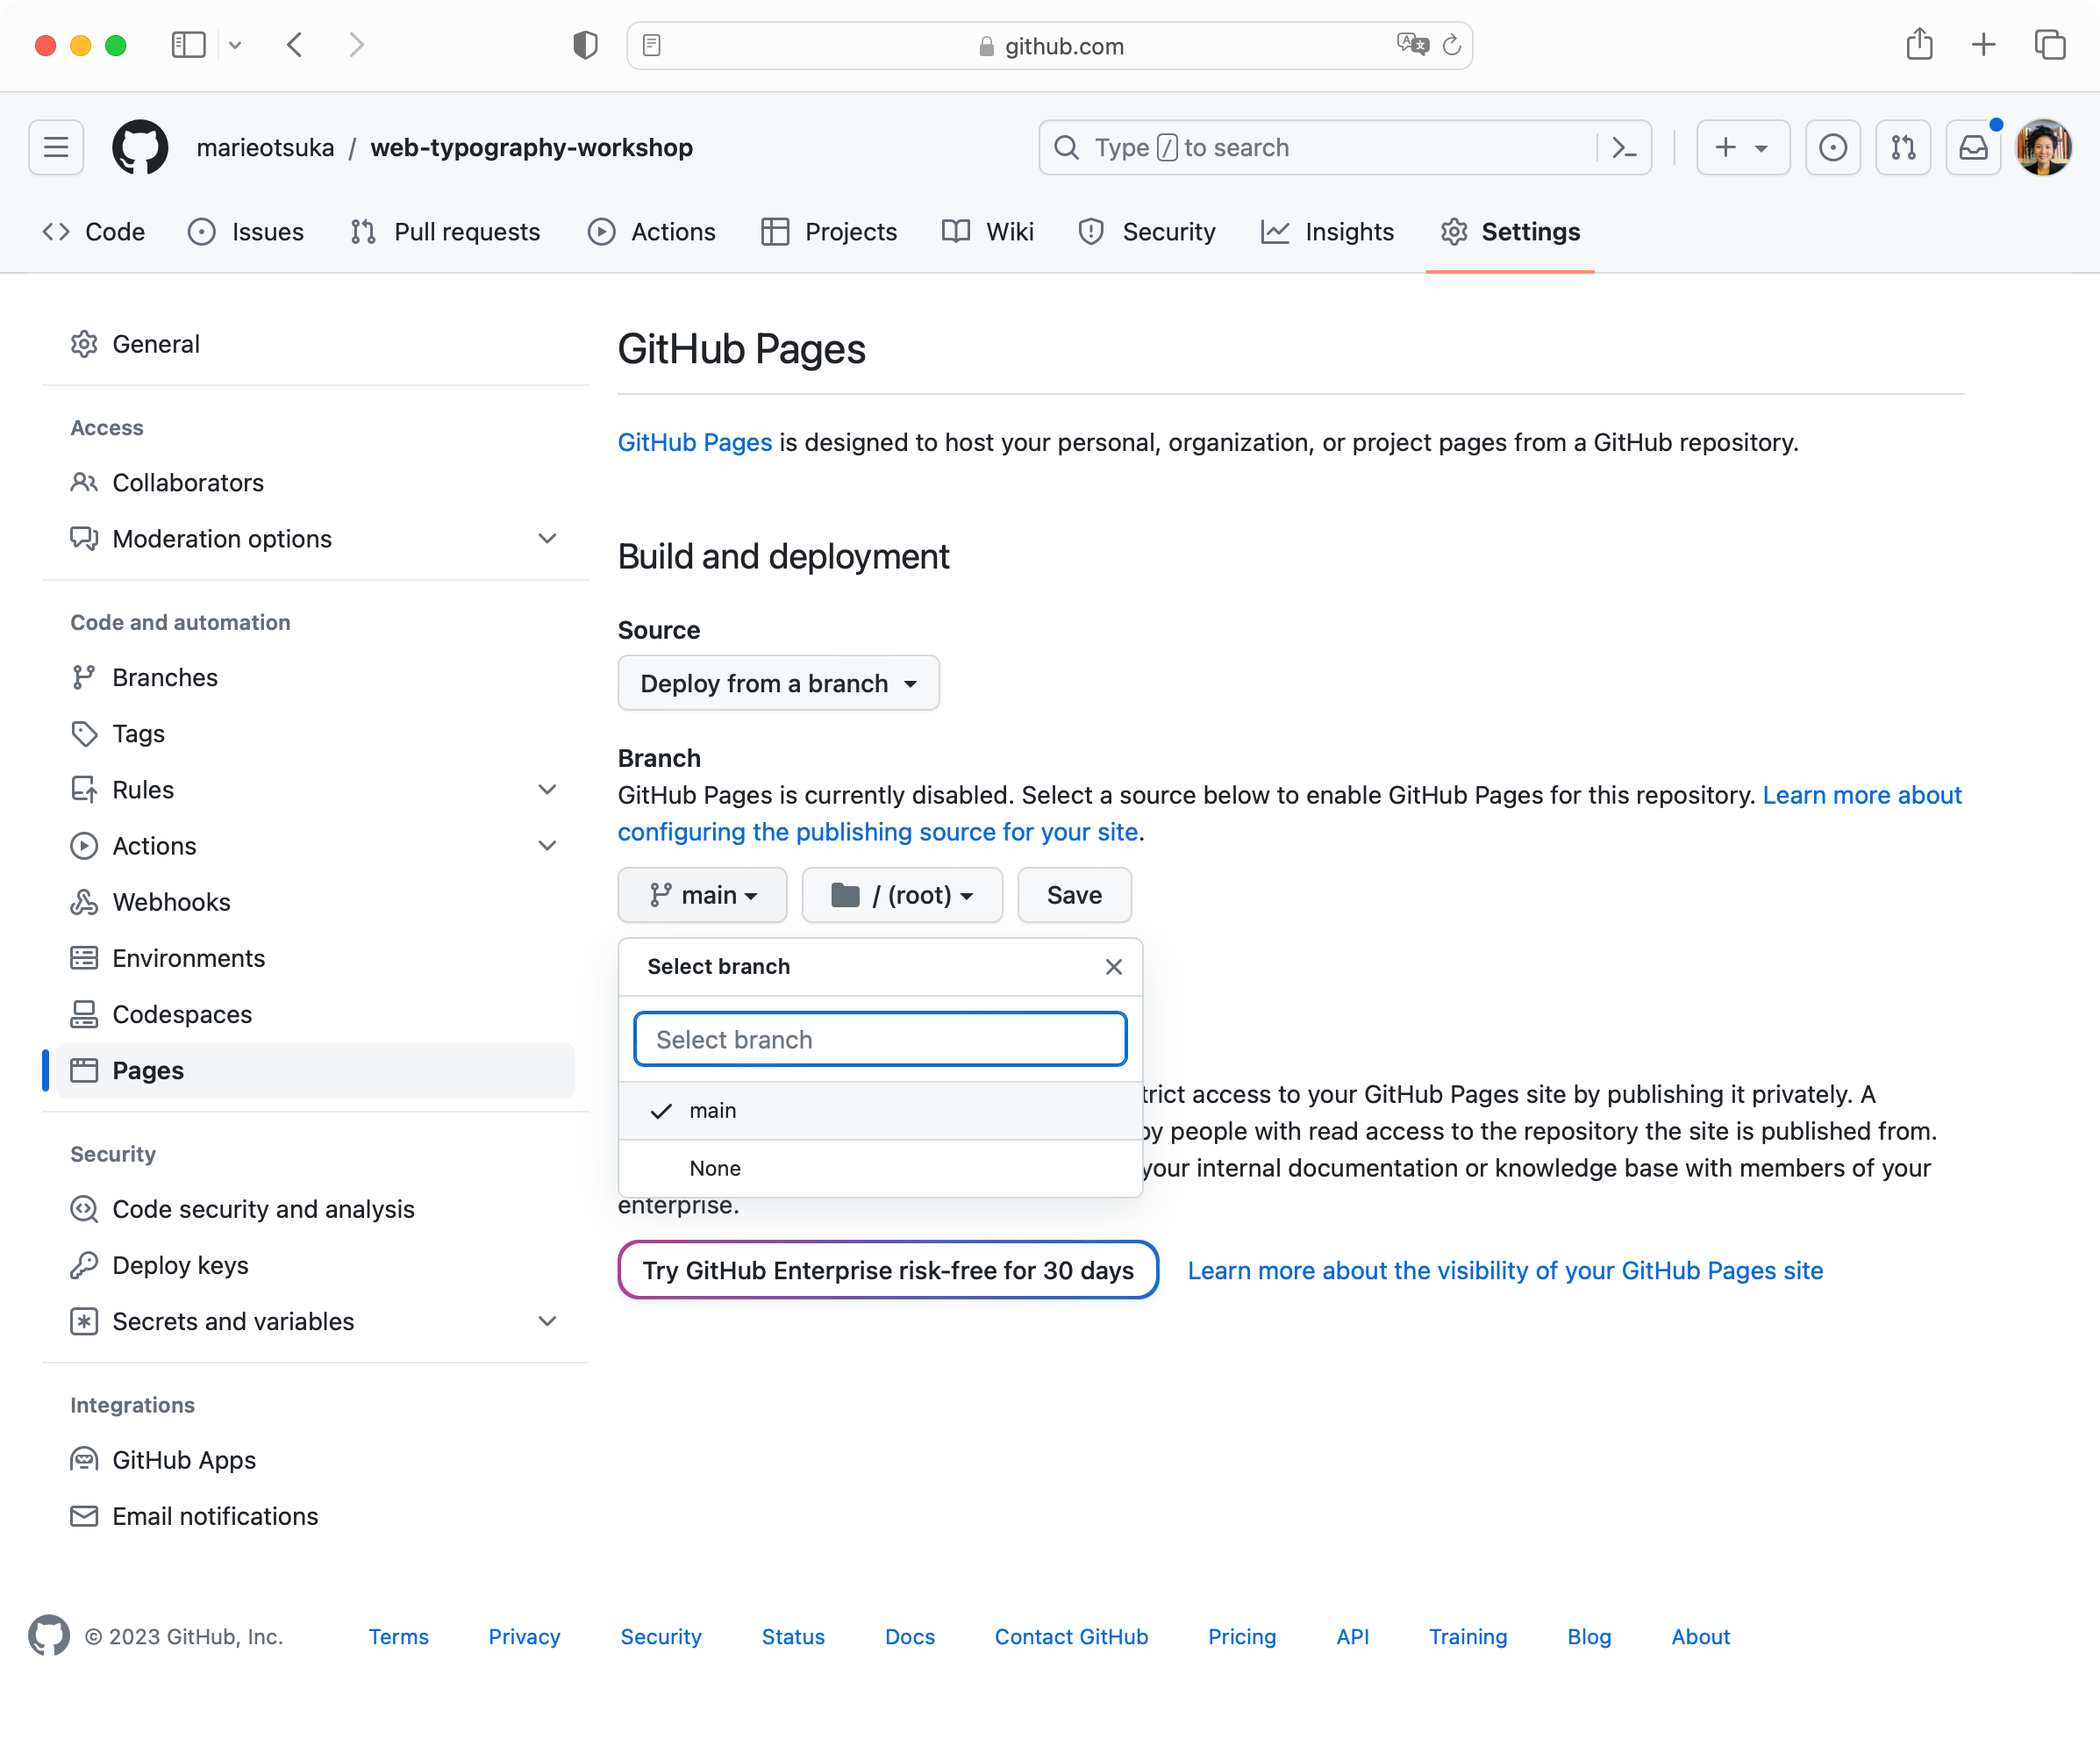
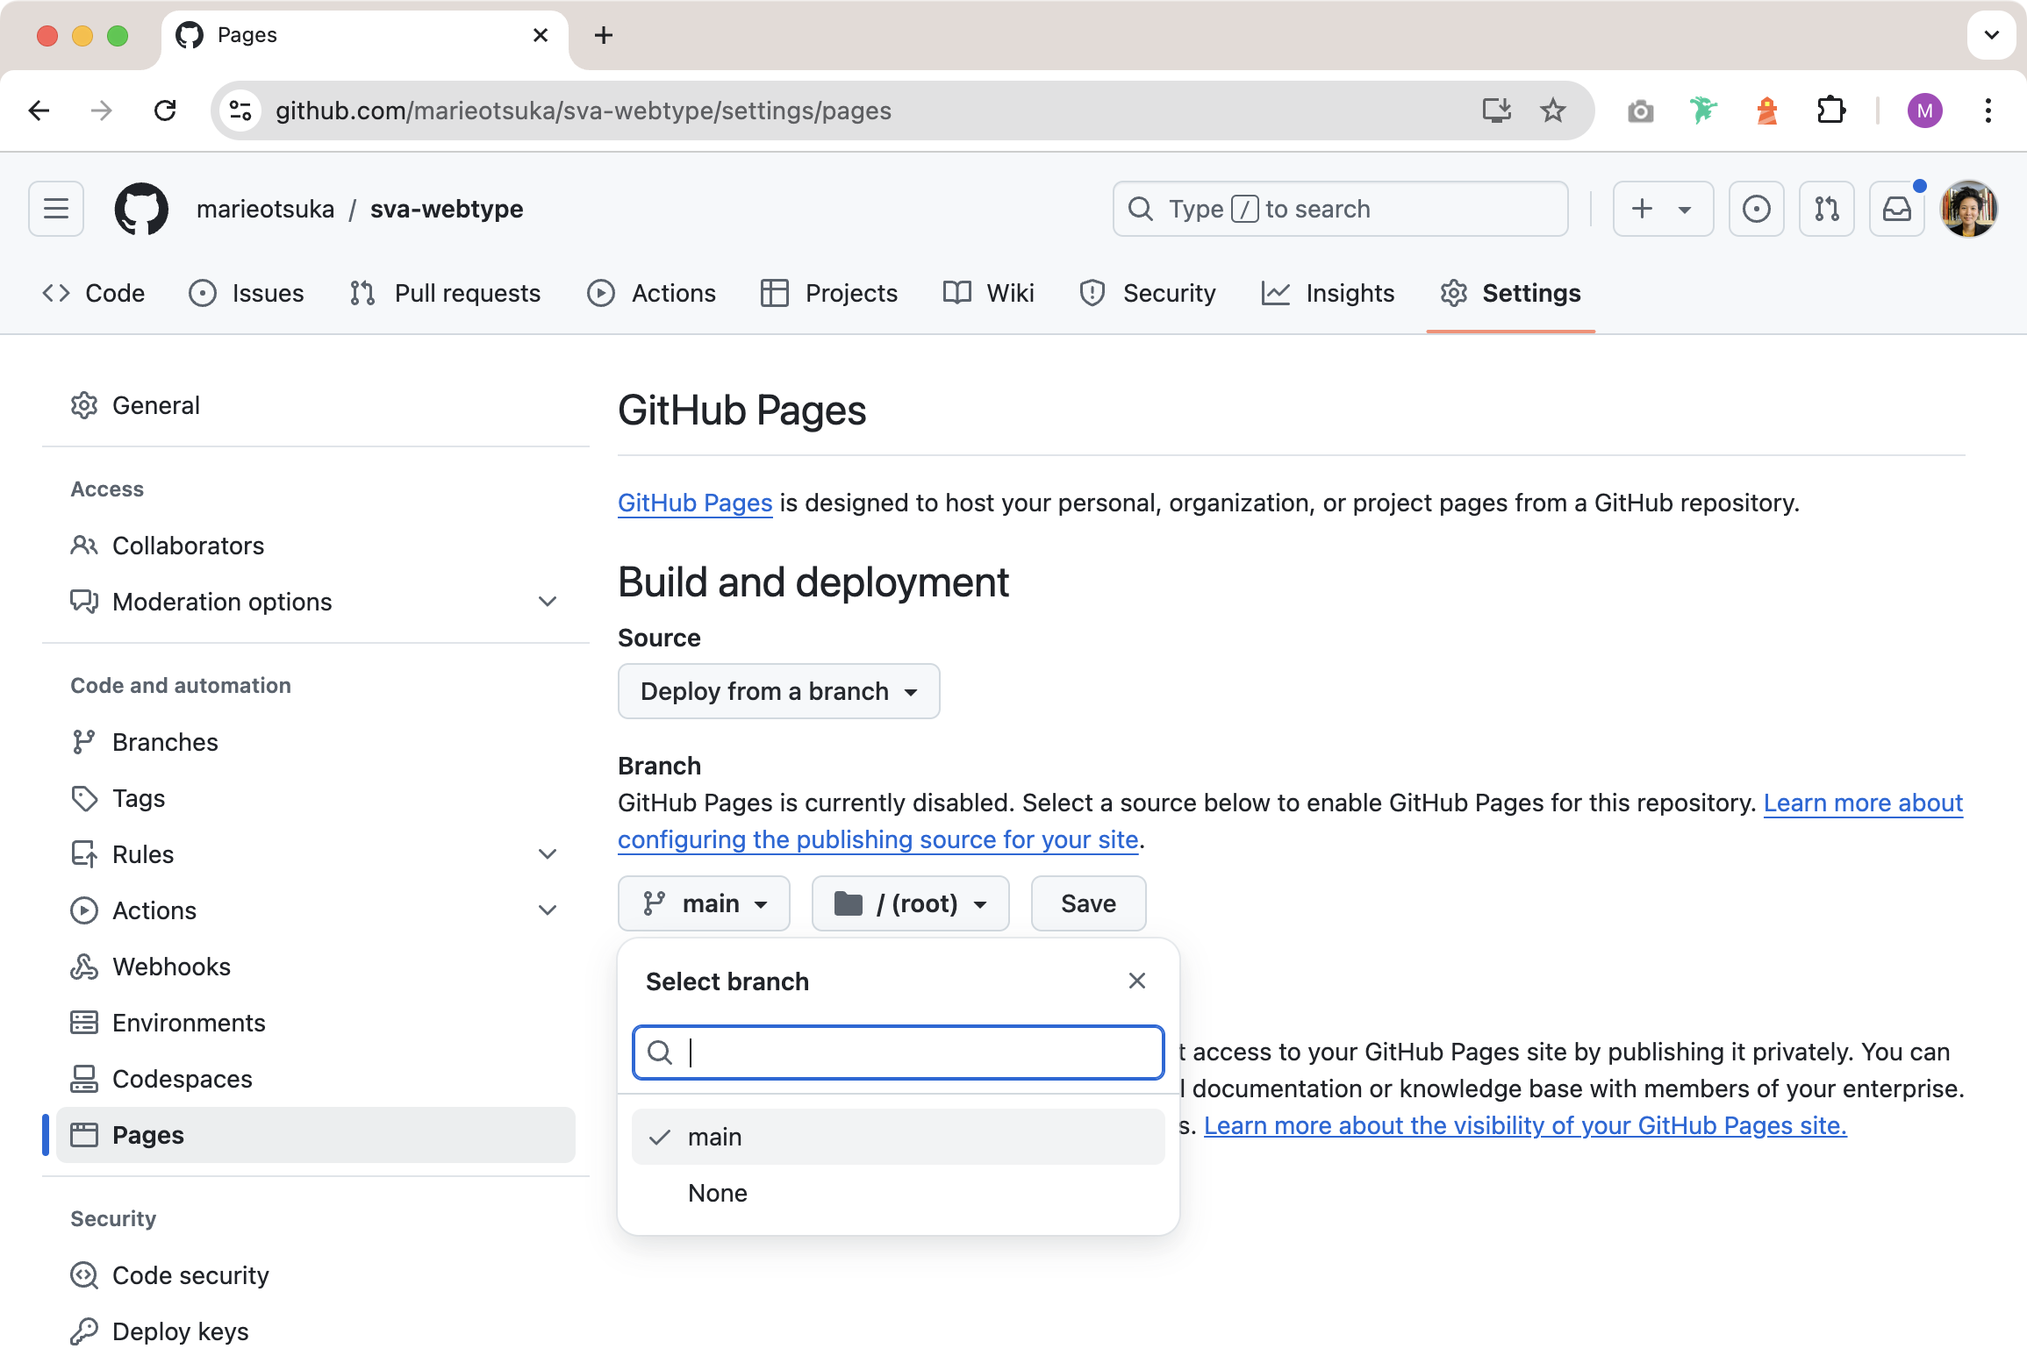
refresh gh pages screenshot

diff --git a/lectures/01_github/index.html b/lectures/01_github/index.html
@@ -139,24 +139,33 @@
 		<section class="slide">
 			<div class="text">
 				<h2>Publish your website</h2>
-				<p>
-					In your GitHub.com repository page, find the “Settings” tab. Select Github Pages on the sidebar, and press the Select Source and choose <code>master</code> from the dropdown. This is the source files for your webpage.
-				</p>
-				<p>
-					After you click save, click the link listed in the same section, which should be  <code>username.github.io</code> to view your website that should say “Hello World”. You can now upload any page and publish it to the web!
-				</p>				
+				<ol>
+					<li>In your browser, on your github repository page find the <code>Settings</code> tab</li>
+					<li>In the left-hand sidebar, select <code>Pages</code></li>
+					<li>Under <code>Branch</code>, select the dropdown and choose <code>main</code>.</li>
+					<li>Click <code>Save</code>. It will take a couple minutes for this setting to take effect.</li>
+				</ol>			
 			</div>
+			<figure class="span2">
+				<img src="img/gh-pages.png">
+			</figure>
+		</section>
+		<section class="slide">
 			<div class="text span2">
 				<h2>Your Live Site</h2>
 				<p>
 					Your live webpage will take on the name of your repository. If your repository is named <code>username.github.io</code>, your website url will be <code>https://marieotsuka.github.io/</code>. (If you used a diffferent repository name, it will be at <code>https://marieotsuka.github.io/repositoryname</code>.)
 				</p>
+				<p>If you find yourself confused about your URL, go back to the <code>Pages</code> setting of your Github repository. There should be a message that says “Your site is live at xxx.” This is your live URL.</p>
 				<p>
 					It is important to confirm that everything is working on the <strong>live</strong> version of your website. This is the URL you should use to share your work and submit assignments. <em>Do not use your local preview URL beginning with <code>file:</code>. This won’t be accessible to anyone else.</em>
 				</p>
 				<p>
 					Note: It may take a couple of minutes for the live website to reflect updates after pushing your changes to Github. Make sure you also do a <code>hard refresh</code> of your site to clear any cache. (Keyboard shortcut is Shift + command + R).
 				</p>
+			</div>
+			<div class="text">
+				<p>Exercise: Submit your URL to the Class Site exercise on Canvas</p>
 			</div>
 		</section>
 	</main>
